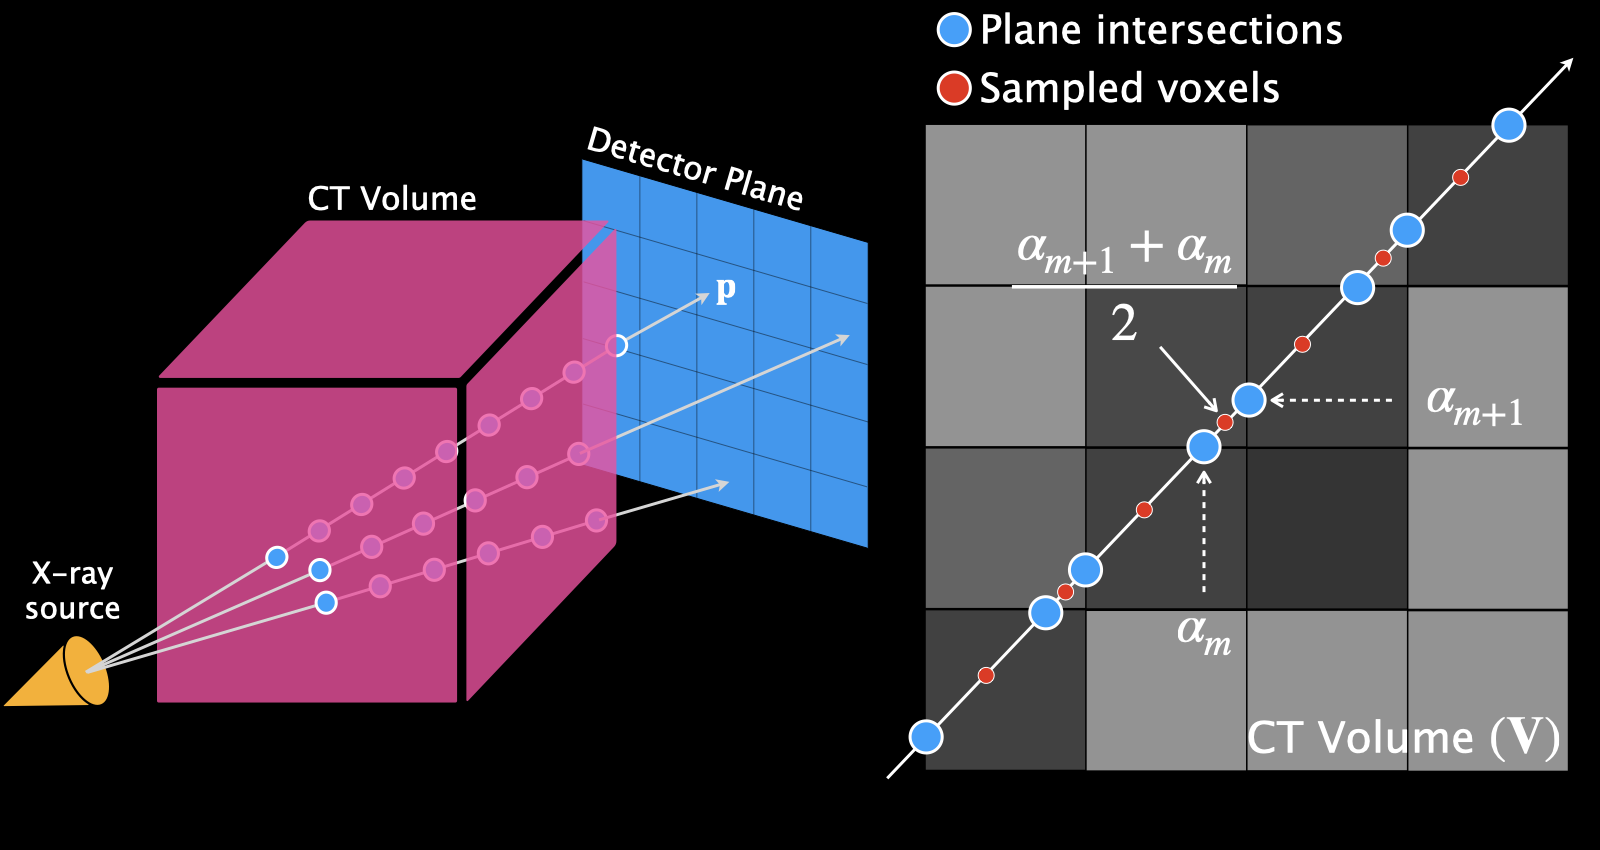
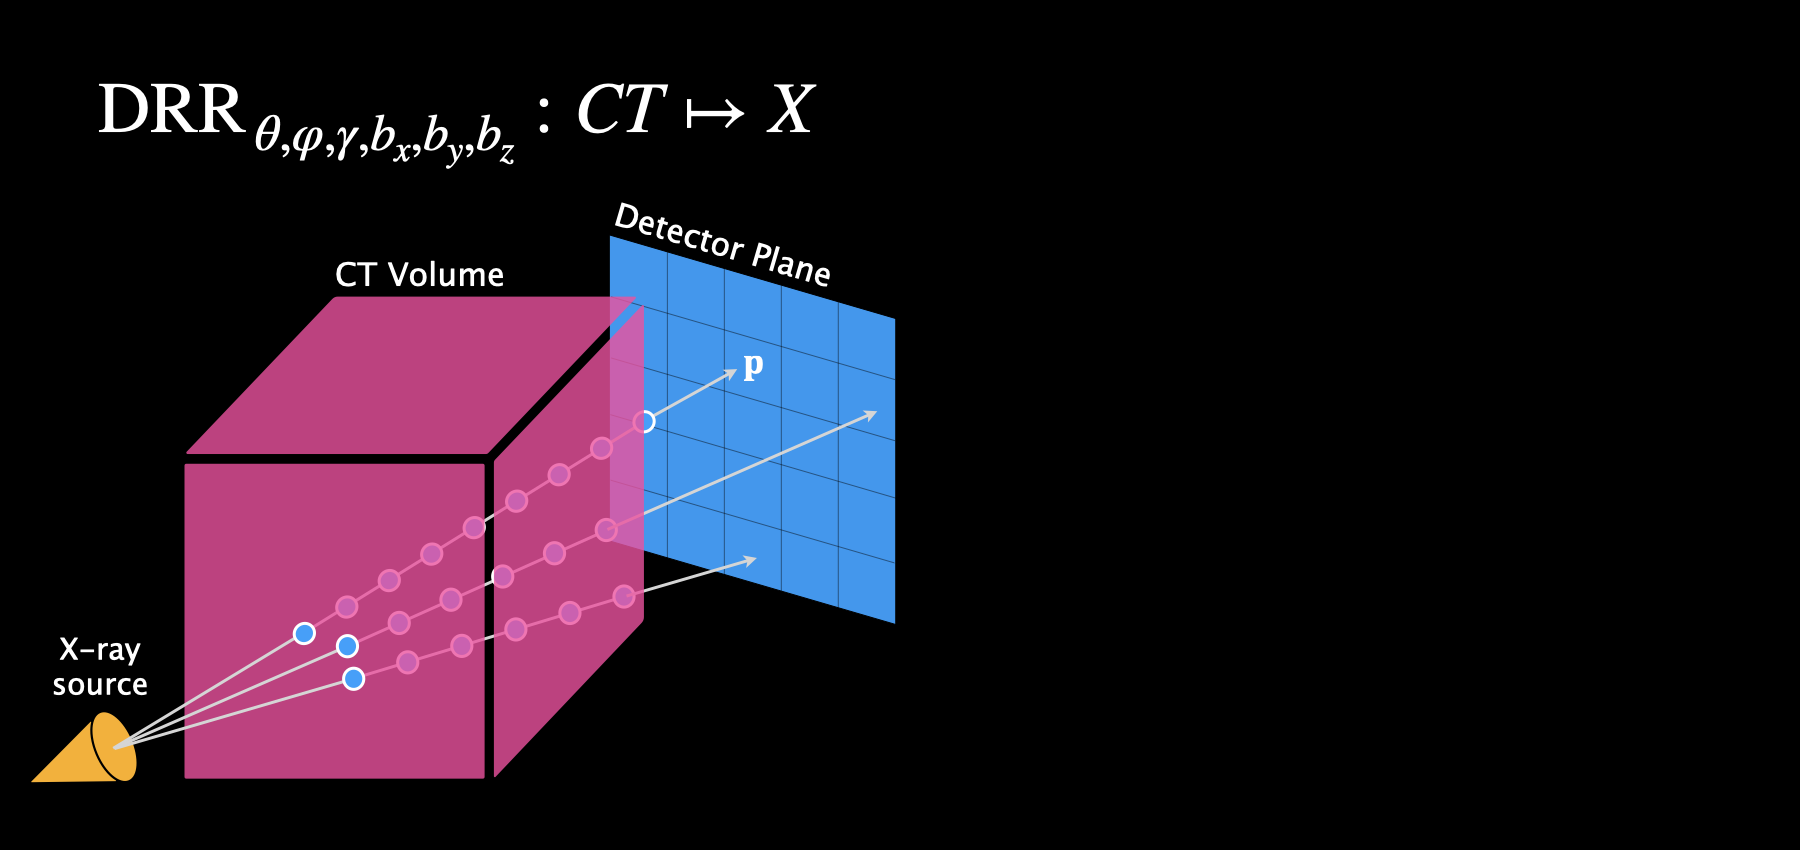
Add animations

diff --git a/talks/DiffDRR.html b/talks/DiffDRR.html
@@ -124,6 +124,31 @@ Vivek Gopalakrishnan and Polina Golland
 
 Existing DRR generators are <u>simple renderers</u>:
 
+---
+# Try an inverse graphics approach
+
+Existing DRR generators are <u>simple renderers</u>:
+
+- ✅ They solve the *forward process* of image syntheis quickly.
+
+- ❌ They are not differentiable.
+
+---
+# Try an inverse graphics approach
+
+Existing DRR generators are <u>simple renderers</u>:
+
+- ✅ They solve the *forward process* of image syntheis quickly.
+
+- ❌ They are not differentiable.
+
+<u>Differentiable renderer</u> explicitly models the relationship between changes in model parameters and synthesized images.
+
+---
+# Try an inverse graphics approach
+
+Existing DRR generators are <u>simple renderers</u>:
+
 - ✅ They solve the *forward process* of image syntheis quickly.
 
 - ❌ They are not differentiable.
@@ -138,9 +163,14 @@ Existing DRR generators are <u>simple renderers</u>:
 ---
 # Our auto-differentiable DRR renderer
 
-$$ \mathrm{DRR}~_{\theta, \varphi, \gamma, b_x, b_y, b_z} : CT \mapsto X $$
 
-<center><img src="../images/DiffDRR/siddon.001.png" width="80%"></center>
+<center><img src="../images/DiffDRR/siddon.001.png" width="100%"></center>
+
+---
+# Our auto-differentiable DRR renderer
+
+
+<center><img src="../images/DiffDRR/siddon.002.png" width="100%"></center>
 
 <small>
     Siddon. "Fast calculation of the exact radiological path for a three-dimensional CT array." *Medical Physics*, 1985.
